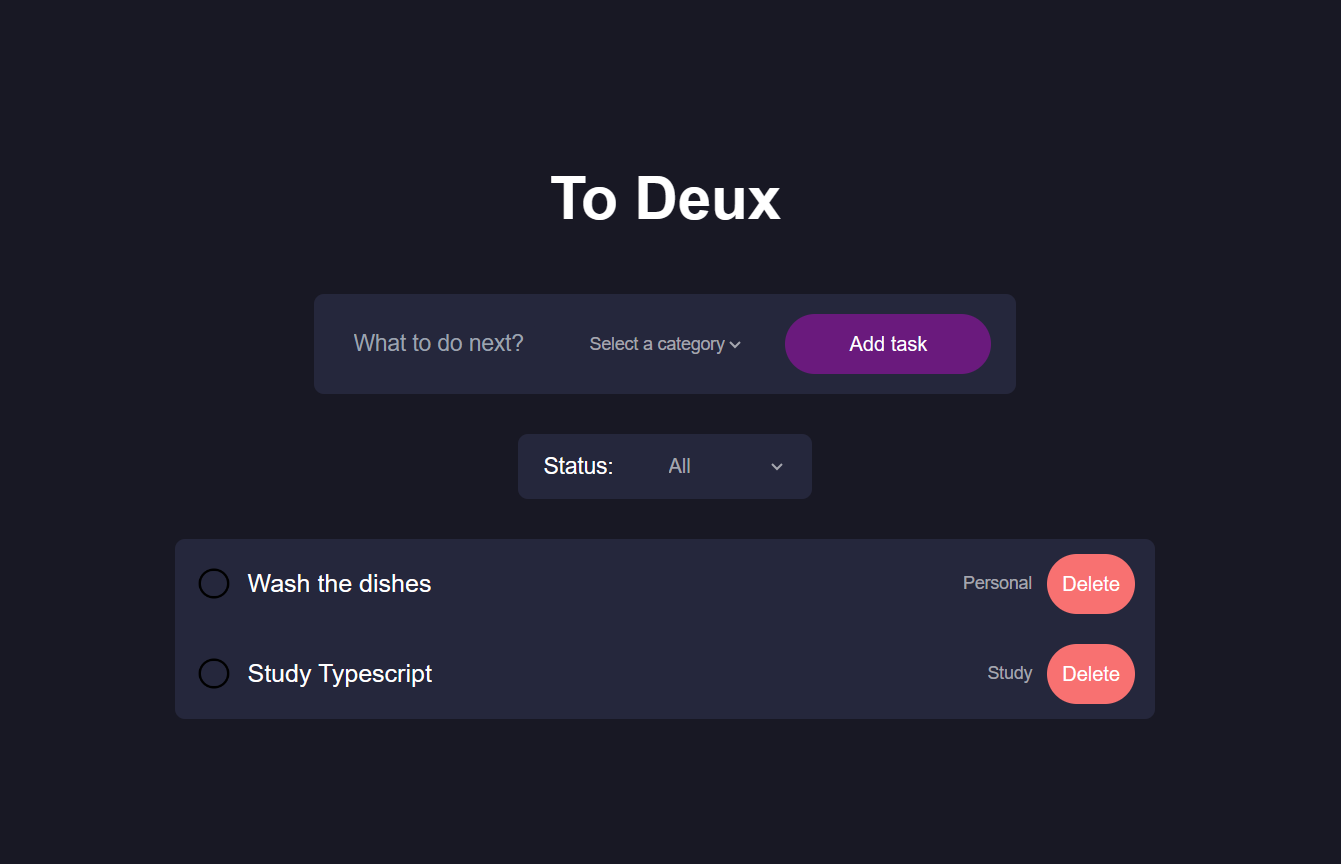
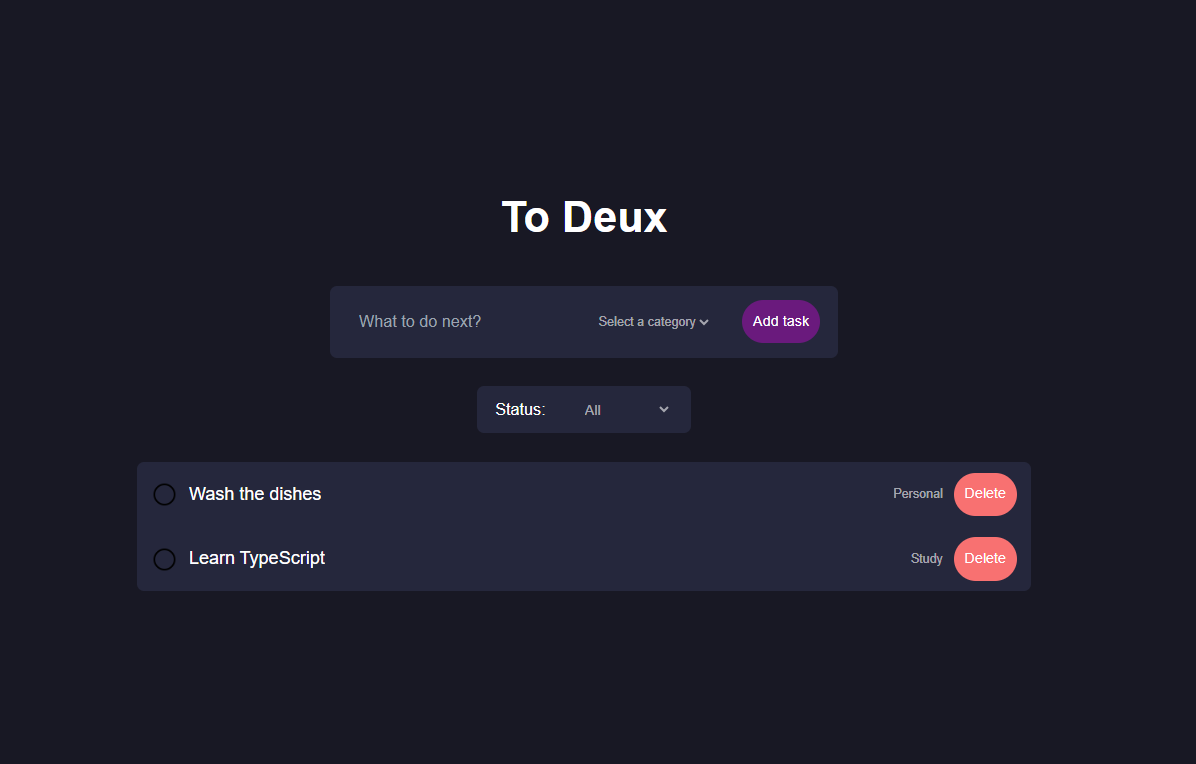
new button size

diff --git a/src/components/TaskField.tsx b/src/components/TaskField.tsx
@@ -1,4 +1,4 @@
-import { useState, KeyboardEvent, ChangeEvent } from "react"
+import { useState, ChangeEvent } from "react"
 import Button from "./Button"
 
 type TaskFieldProps = {
@@ -21,7 +21,7 @@ const TaskField = ({loadTask} : TaskFieldProps) => {
     <div className="bg-[#25273C] py-4 px-5 flex justify-around items-center gap-8 rounded-lg">
       <form className="bg-[#25273C] flex max-md:flex-col justify-around items-center gap-8 w-full" onSubmit={handleSubmit}>
 
-        <input value={task} onChange={(e) => setTask(e.target.value)} placeholder="What to do next?" type="text" className="focus:outline-none md:px-3 text-slate-gray bg-[#25273C] text-lg rounded-lg w-full" />
+        <input value={task} onChange={(e) => setTask(e.target.value)} placeholder="What to do next?" type="text" className="focus:outline-none md:px-3 text-slate-gray bg-[#25273C] text-lg rounded-lg w-30" />
 
         <select value={category} className="bg-[#25273C] max-md:w-full text-sm text-[#ffffff96] focus:outline-none w-30" onChange={(e) => setCategory(e.target.value)}>
           <option value="">Select a category</option>

diff --git a/src/App.tsx b/src/App.tsx
@@ -40,7 +40,7 @@ function App() {
   }
 
   return (
-    <main className='w-100 min-h-screen p-10 bg-[#181824] text-white flex flex-col gap-8 justify-center items-center '> 
+    <main className='w-100 min-h-screen p-10 bg-[#181824] text-white flex flex-col gap-8 justify-center md:items-center'> 
 
       <h1 className='text-left font-bold text-5xl mb-5'>To Deux</h1>
 
@@ -48,7 +48,7 @@ function App() {
 
       <Filter filter={filter} setFilter={setFilter}/>
 
-      {task && <div className='bg-[#25273C] rounded-lg flex flex-col max-md:gap-2 w-[70vw]'>
+      {task && <div className='bg-[#25273C] rounded-lg flex flex-col max-md:gap-2 w-[70vw] max-md:w-full'>
         {task.filter((task) => 
           filter === "All" 
           ? task : filter === "Complete" 
